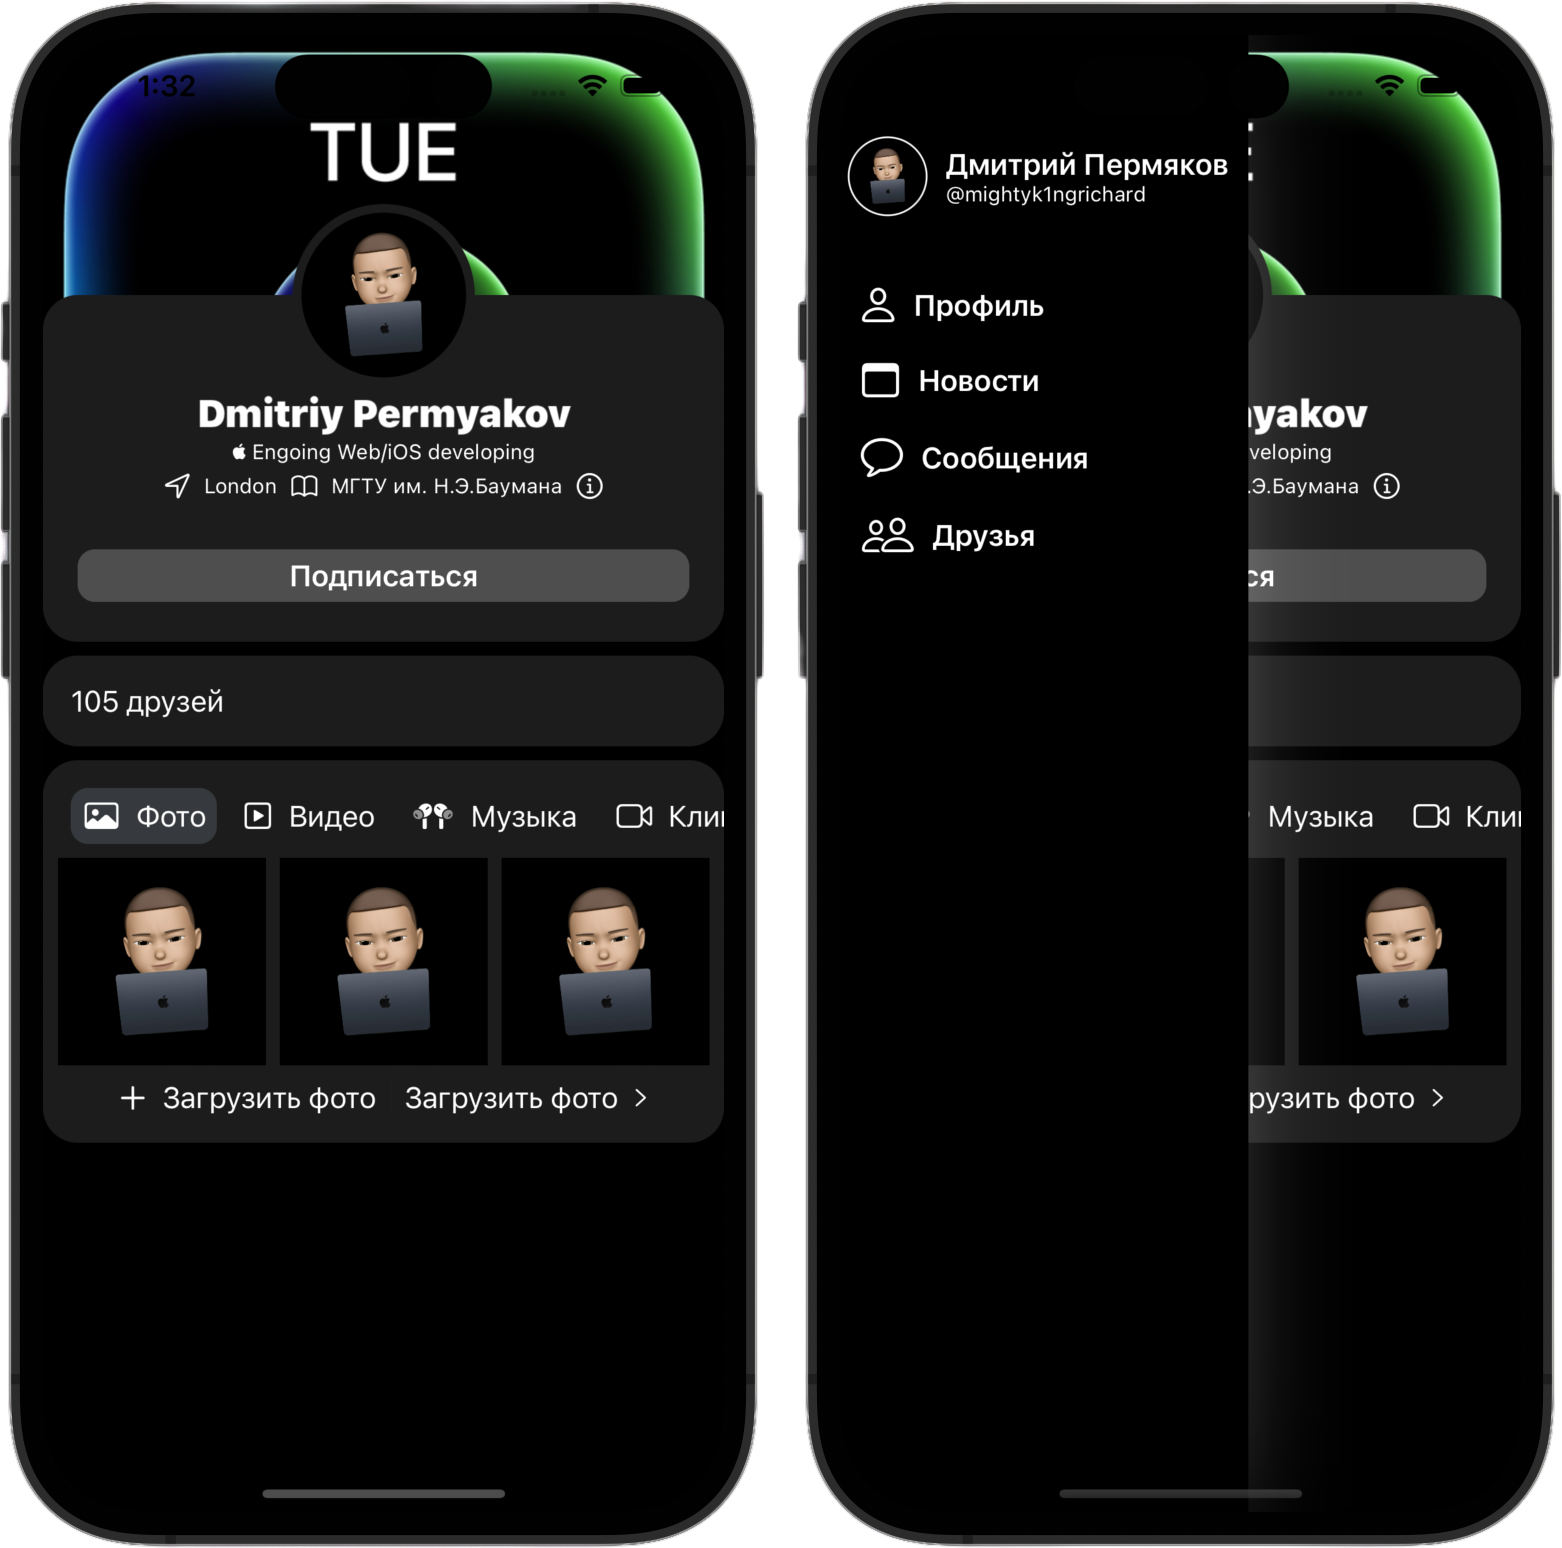
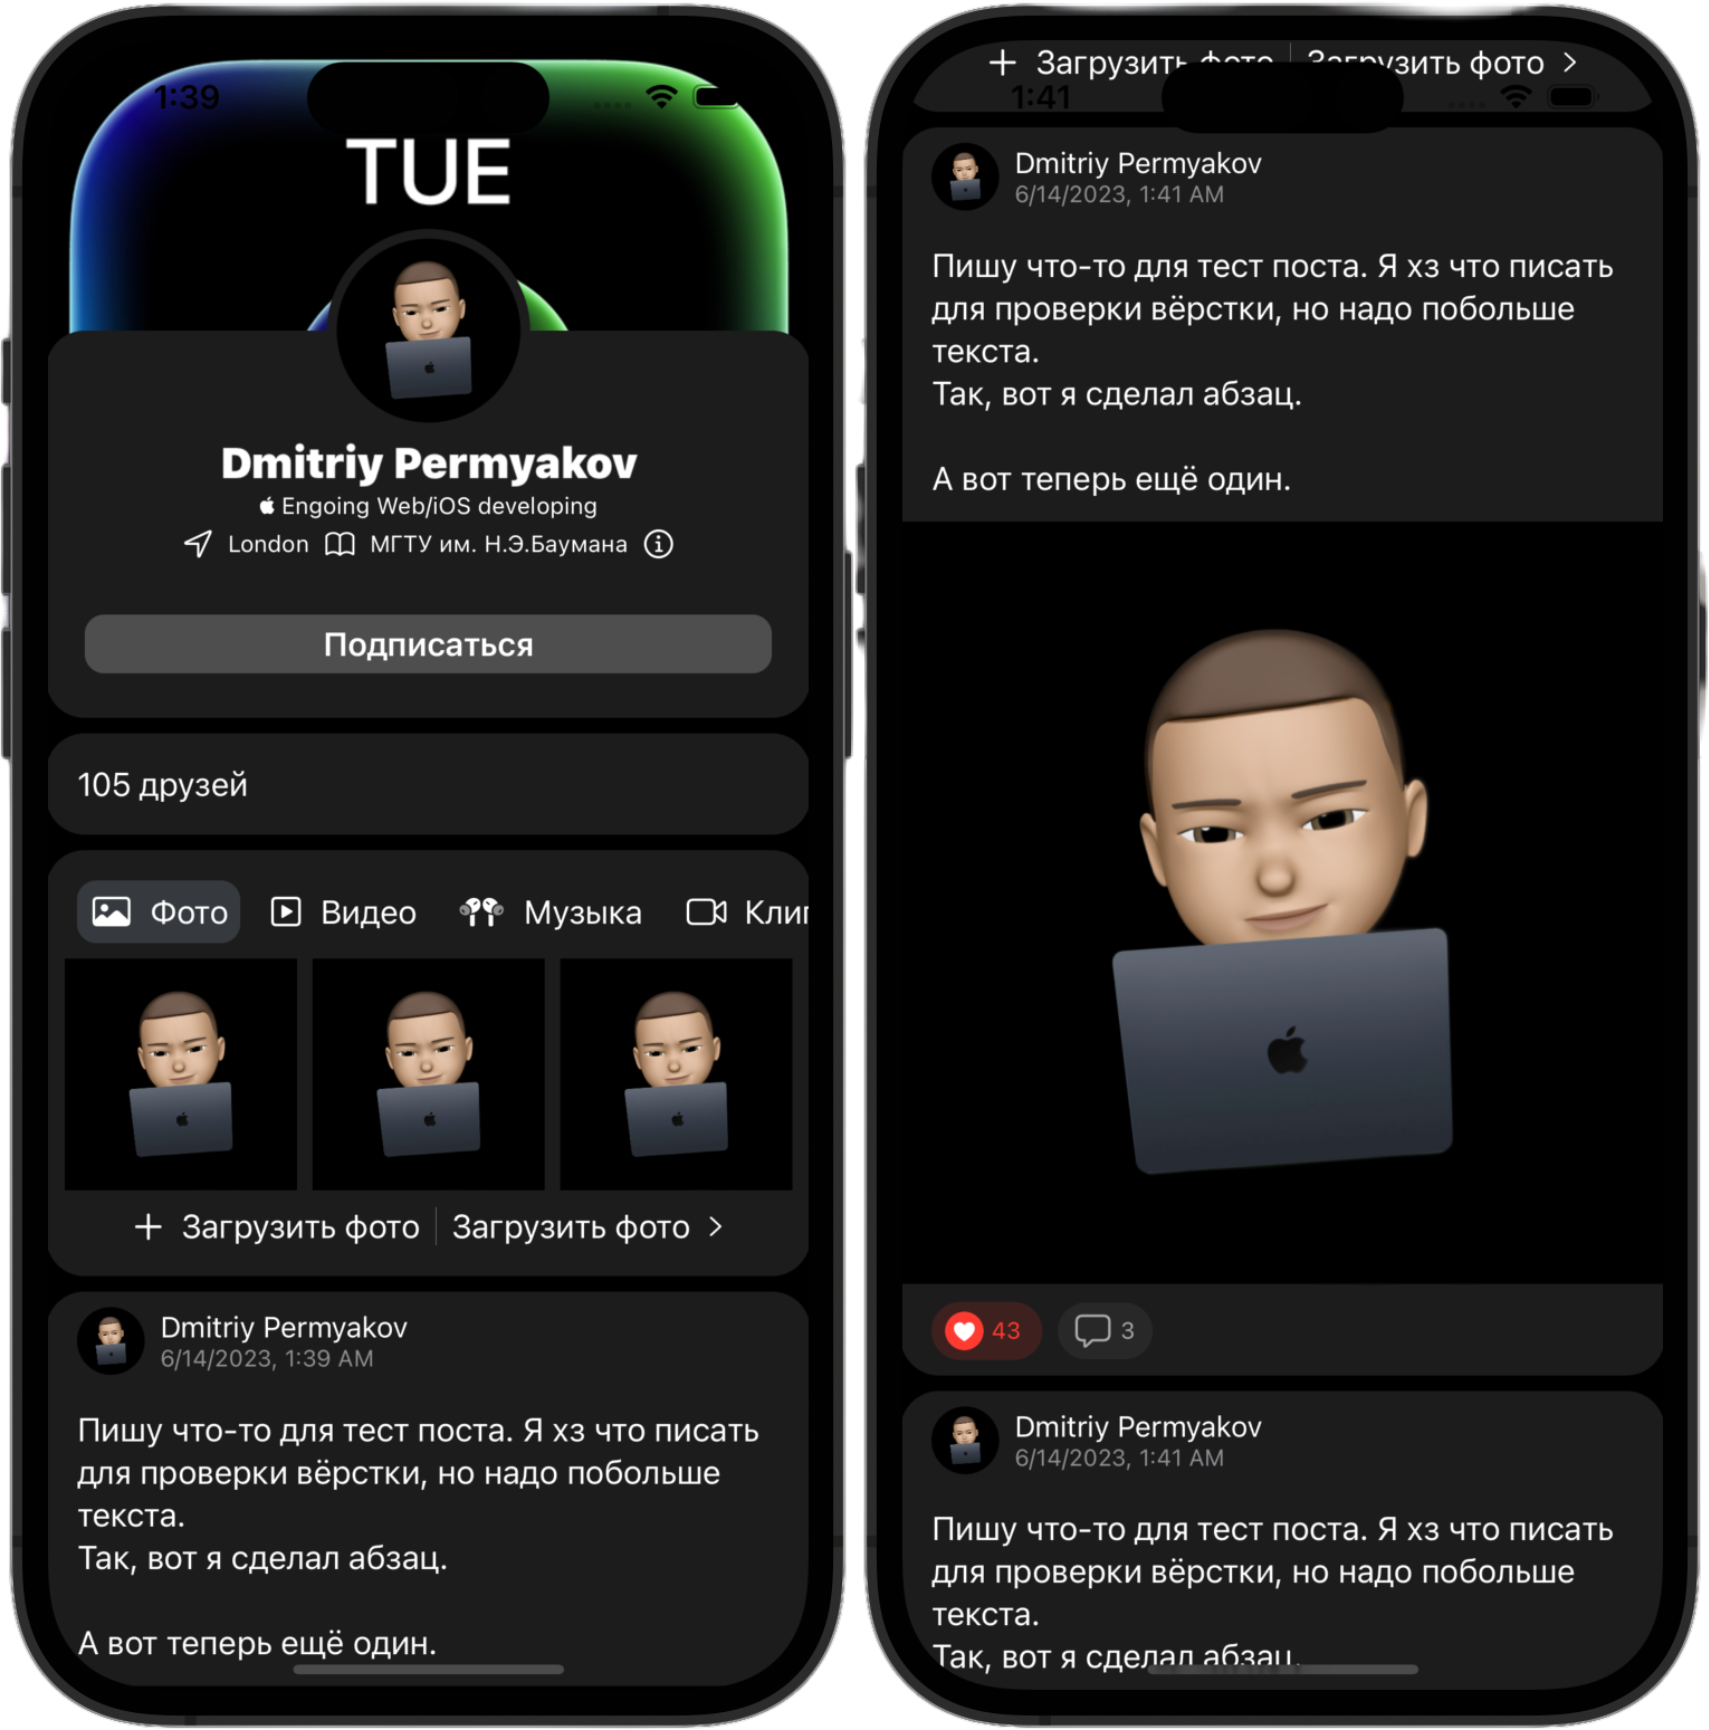
Add posts view

diff --git a/MightyK1ngRichard-App/Views/SelectedMode/ProfileView/MainView/ProfileView.swift b/MightyK1ngRichard-App/Views/SelectedMode/ProfileView/MainView/ProfileView.swift
@@ -7,6 +7,9 @@
 
 import SwiftUI
 
+var backgroundColor : UIColor = #colorLiteral(red: 0.1105830893, green: 0.1105830893, blue: 0.1105830893, alpha: 1)
+var colorOfText     : Color = .white
+
 struct ProfileView: View {
     @EnvironmentObject var selected   : SelectedButton
     @State private var pressedButton = "Фото"
@@ -22,14 +25,10 @@ struct ProfileView: View {
     var description     = " Engoing Web/iOS developing"
     var locationInfo    = "London"
     var backroundImage  = "wwdc"
-    var backgroundColor : UIColor = #colorLiteral(red: 0.1105830893, green: 0.1105830893, blue: 0.1105830893, alpha: 1)
-    var colorOfText     : Color = .white
     var countOfFriends  = "105" + " друзей"
     
-    
-    
     var body: some View {
-        ScrollView {
+        ScrollView(showsIndicators: false) {
             ScreenOfUser()
         }
         .background(Color(.black))
@@ -105,9 +104,21 @@ struct ProfileView: View {
                     VStack {
                         TopView()
                             .frame(height: 200)
-                        DownView()
+                        CountOfFriendsView()
                         
                         imagesView()
+                        
+                        // TODO: При работе с БД заменить данные
+                        ForEach(0...4, id: \.self) { _ in
+                            let test = """
+Пишу что-то для тест поста. Я хз что писать для проверки вёрстки, но надо побольше текста.
+Так, вот я сделал абзац.
+
+А вот теперь ещё один.
+""".trimmingCharacters(in: .whitespaces)
+
+                            UserPostsView(textOfPost: test, imageOfPost: Image("k1ng"), dateOfPost: .now, username: nickname, userImage: Image("k1ng"))
+                        }
                     }
                     
                     Image(image)
@@ -176,8 +187,8 @@ struct ProfileView: View {
                     Text("Загрузить фото")
                 }
 
-                
                 Divider()
+                    .background(Color.white.opacity(0.6))
                 
                 Button {
                     // ?
@@ -193,12 +204,13 @@ struct ProfileView: View {
             .padding(.bottom)
         }
         .foregroundColor(.white)
-        .frame(maxWidth: .infinity)
+        // TODO: Размеры подумать для других устройств.
+        .frame(maxWidth: .infinity, maxHeight: 220)
         .background(Color(backgroundColor))
         .cornerRadius(20)
     }
 
-    private func DownView() -> some View {
+    private func CountOfFriendsView() -> some View {
         VStack {
             Text(countOfFriends)
                 .frame(maxWidth: .infinity, alignment: .leading)
@@ -211,15 +223,14 @@ struct ProfileView: View {
     }
 }
 
+/// Кнопки: фотки, видео, музыка.
 struct ButtonsOfModes: View {
     @Binding var pressedButton: String
     var img : String
     var text: String
-    
+    let color = #colorLiteral(red: 0.2549019754, green: 0.2745098174, blue: 0.3019607961, alpha: 1)
     
     var body: some View {
-        let color = #colorLiteral(red: 0.2549019754, green: 0.2745098174, blue: 0.3019607961, alpha: 1)
-        
         HStack {
             Button {
                 pressedButton = text
@@ -238,6 +249,119 @@ struct ButtonsOfModes: View {
         .cornerRadius(10)
     }
     
+}
+
+/// View постов.
+struct UserPostsView: View {
+    var textOfPost  : String?
+    var imageOfPost : Image?
+    var dateOfPost  : Date
+    var username    : String
+    var userImage   : Image?
+    
+    var body: some View {
+        VStack {
+            Group {
+                HStack {
+                    if let img = userImage {
+                        img
+                            .resizable()
+                            .frame(width: 35, height: 35)
+                            .clipShape(Circle())
+                        
+                    } else {
+                        Image(systemName: "person.circle")
+                            .resizable()
+                            .frame(width: 35, height: 35)
+                            .foregroundColor(.white.opacity(0.5))
+                    }
+                    
+                    VStack {
+                        Text(username)
+                            .font(.subheadline)
+                            .foregroundColor(colorOfText)
+                            .frame(maxWidth: .infinity, alignment: .leading)
+                        
+                        Text("\(dateOfPost.formatted())")
+                            .font(.caption)
+                            .foregroundColor(.gray)
+                            .frame(maxWidth: .infinity, alignment: .leading)
+                    }
+                    
+                    Spacer()
+                }
+                
+                if let text = textOfPost {
+                    HStack {
+                        Text(text)
+                            .foregroundColor(colorOfText)
+                            .font(.body)
+                        Spacer()
+                    }
+                }
+            }
+            .padding(.horizontal)
+            .padding(.top, 8)
+            
+            
+            if let imgPost = imageOfPost {
+                imgPost
+                    .resizable()
+                    .frame(width: 395, height: 395)
+                    .frame(maxWidth: .infinity)
+                    .background(Color(backgroundColor))
+            }
+            
+            HStack {
+                HStack {
+                    Image(systemName: "heart.circle.fill")
+                        .resizable()
+                        .frame(width: 20, height: 20)
+                        .foregroundColor(.red)
+                        .background(Color.white.frame(width: 12, height: 12))
+                        .clipShape(Circle())
+                    
+                    Text("43")
+                        .font(.caption)
+                        .offset(x: -4)
+                        .foregroundColor(.red)
+                }
+                .padding(.horizontal, 7)
+                .padding(.vertical, 5)
+                .background(
+                    Capsule()
+                        .foregroundColor(.red)
+                        .opacity(0.15)
+                )
+                
+                HStack {
+                    Image(systemName: "bubble.left")
+                        .foregroundColor(.white.opacity(0.6))
+                        
+                    Text("3")
+                        .font(.caption)
+                        .offset(x: -5)
+                        .foregroundColor(.white.opacity(0.6))
+                }
+                .padding(.leading, 7)
+                .padding(.trailing, 4)
+                .padding(.vertical, 5)
+                .background(
+                    Capsule()
+                        .foregroundColor(.gray)
+                        .opacity(0.1)
+                )
+                
+                Spacer()
+            }
+            .foregroundColor(.white)
+            .padding(.horizontal)
+            .padding(.bottom, 8)
+        }
+        .frame(maxWidth: .infinity)
+        .background(Color(backgroundColor))
+        .cornerRadius(20)
+    }
 }
 
 struct ProfileView_Previews: PreviewProvider {
